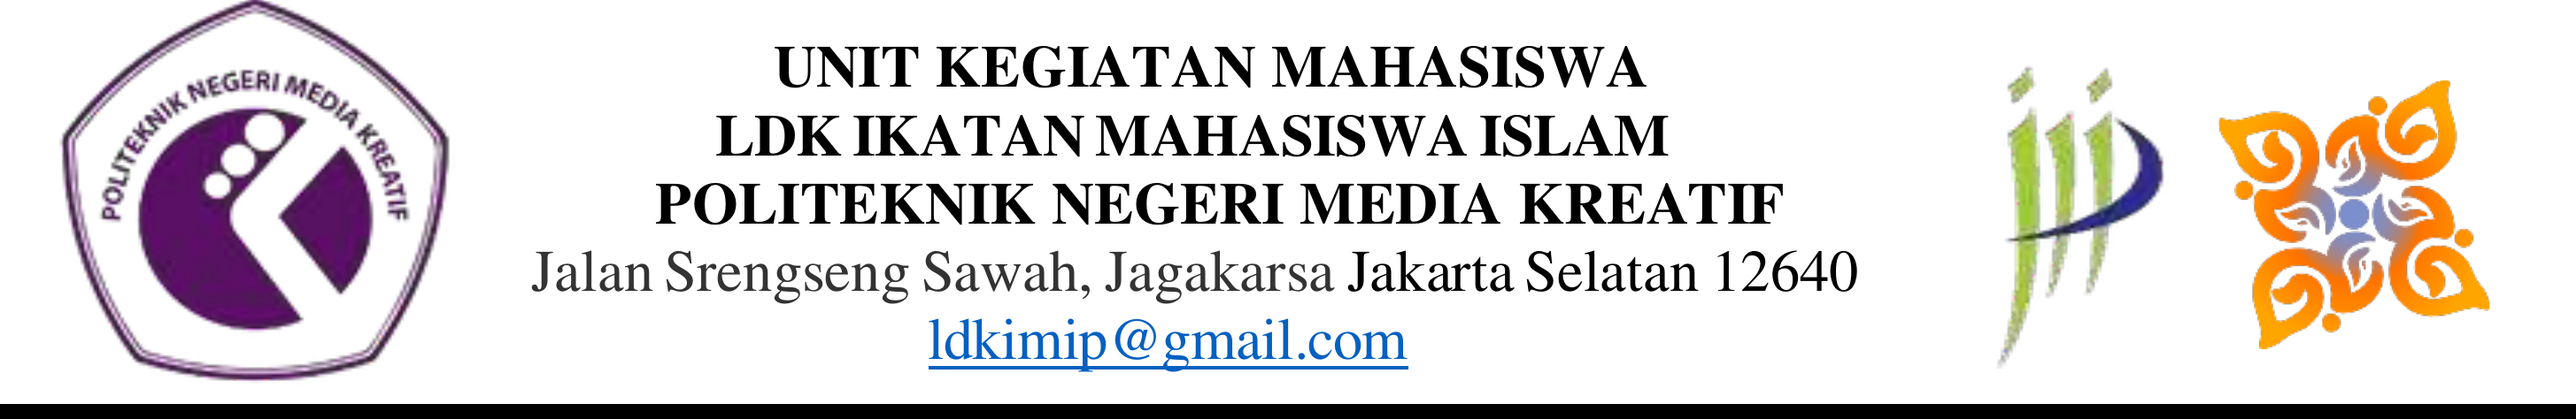
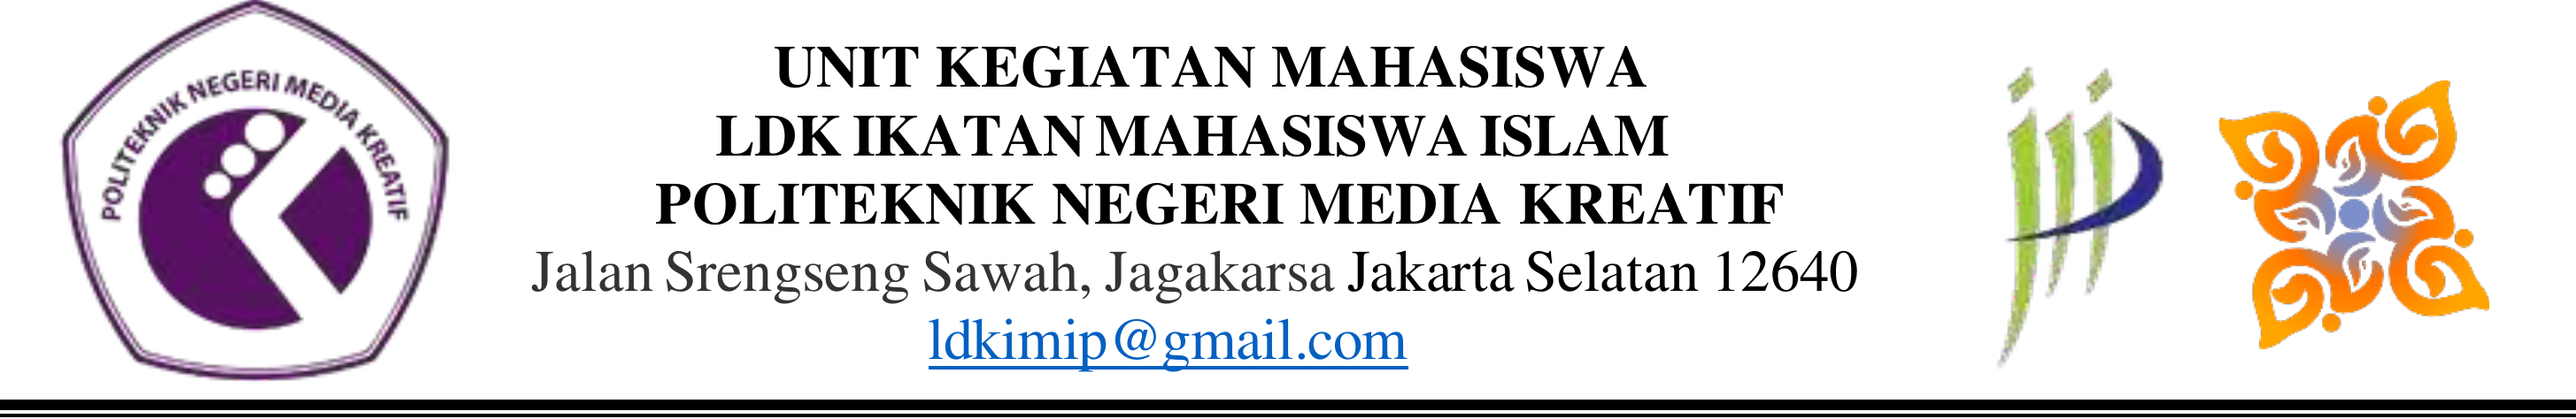
fix(spz): revisi format surat SPZ sesuai arahan gambar (garis ganda kop, PoliMedia, Yth tanpa kepada, tanpa koma UKM, perataan sejajar & perbaikan spasi)

Changed region(s): [[0.0, 0.9451, 1.0, 1.0]]

diff --git a/buat-surat.html b/buat-surat.html
@@ -764,14 +764,14 @@
                 nomorSurat: '025/SPZ/E1/UKM IMIP/V/2026',
                 lampiran: '1 Lembar',
                 tanggalSurat: 'Jakarta, 26 Mei 2026',
-                perihal: 'Surat Perizinan Fasilitas Masjid Ar-Rahman Polimedia',
-                tujuan: 'Kepada Yth, **Kepala Subbagian Umum**\nPoliteknik Negeri Media Kreatif\nDi Tempat',
+                perihal: 'Surat Perizinan Fasilitas Masjid Ar-Rahman PoliMedia',
+                tujuan: 'Yth. **Kepala Subbagian Umum**\nPoliteknik Negeri Media Kreatif\nDi Tempat',
                 incEvent: true,
                 namaAcara: 'QURMEDIA 2026',
                 hariTanggal: 'Rabu, 27 Mei s/d Kamis, 28 Mei 2026',
                 waktu: '18.00 s/d 06.00 WIB',
                 tempat: 'Masjid Ar-Rahman Politeknik Negeri Media Kreatif Jakarta,\nJl. Srengseng Sawah, Kel. Srengseng Sawah, Kec. Jagakarsa,\nJakarta Selatan 12630',
-                pembuka: 'Melalui surat ini, kami **UKM LDK IMIP**, bermaksud untuk mengajukan permohonan izin penggunaan fasilitas **Masjid Ar-Rahman Politeknik Negeri Media Kreatif** Jakarta untuk kegiatan **QURMEDIA 2026** yang akan dilaksanakan pada:',
+                pembuka: 'Melalui surat ini, kami **Unit Kegiatan Mahasiswa LDK IMIP** bermaksud untuk mengajukan permohonan izin penggunaan fasilitas **Masjid Ar-Rahman PoliMedia** Jakarta untuk kegiatan **QURMEDIA 2026** yang akan dilaksanakan pada:',
                 isiInti: 'Kegiatan ini merupakan rangkaian persiapan pelaksanaan **QURMEDIA 2026**, yang meliputi penjagaan dan pengawasan hewan qurban sebelum pelaksanaan penyembelihan. Fasilitas masjid akan digunakan sebagai tempat penginapan panitia yang bertugas menjaga hewan qurban agar kegiatan dapat berjalan dengan aman, tertib, dan terkoordinasi dengan baik.',
                 penutup: 'Demikian surat perizinan ini kami sampaikan. Atas perhatian dan kerja sama, kami sampaikan terima kasih.',
                 ttd1Jabatan: 'Ketua Pelaksana\nQURMEDIA 2026',
@@ -1133,7 +1133,9 @@
             escaped = escaped.replace(/\*\*(.*?)\*\*/g, '<strong style="font-weight: bold;">$1</strong>');
             // Auto-bold key entities if not already wrapped in strong
             const autoBoldList = [
+                'Unit Kegiatan Mahasiswa LDK IMIP',
                 'UKM LDK IMIP',
+                'Masjid Ar-Rahman PoliMedia',
                 'Masjid Ar-Rahman Politeknik Negeri Media Kreatif',
                 'QURMEDIA 2026'
             ];
@@ -1147,23 +1149,15 @@
 
         function formatSpzTujuan(text) {
             if (!text) return '';
-            const rawLines = text.split('\n').map(l => l.trim()).filter(l => l !== '');
+            // Remove 'Kepada ' if present as requested: 'Gak usah pake kepada'
+            let cleaned = text.replace(/^Kepada\s+/gm, '');
+            const rawLines = cleaned.split('\n').map(l => l.trim()).filter(l => l !== '');
             return rawLines.map((line, idx) => {
                 let formatted = formatSpzText(line);
                 if (!formatted.includes('<strong') && formatted.includes('Kepala Subbagian Umum')) {
                     formatted = formatted.replace('Kepala Subbagian Umum', '<strong style="font-weight: bold;">Kepala Subbagian Umum</strong>');
                 }
-                const isOnlyKepadaYth = /^Kepada\s+Yth\.?,?$/i.test(line);
-                if (isOnlyKepadaYth) {
-                    return `<p style="margin: 0; line-height: 1.45;">${formatted}</p>`;
-                }
-                if (idx === 0) {
-                    return `<p style="margin: 0 0 12pt 0; line-height: 1.45;">${formatted}</p>`;
-                }
-                if (idx === 1 && /^Kepada\s+Yth\.?,?$/i.test(rawLines[0])) {
-                    return `<p style="margin: 0 0 12pt 0; line-height: 1.45;">${formatted}</p>`;
-                }
-                return `<p style="margin: 0; padding-left: 28pt; line-height: 1.45;">${formatted}</p>`;
+                return `<p style="margin: 0; line-height: 1.35;">${formatted}</p>`;
             }).join('');
         }
 
@@ -1171,16 +1165,16 @@
         function renderSpzLetterHtml() {
             const noSurat = document.getElementById('field_nomor_surat').value.trim() || '025/SPZ/E1/UKM IMIP/V/2026';
             const lampiran = document.getElementById('field_lampiran').value.trim() || '1 Lembar';
-            const perihal = document.getElementById('field_perihal').value.trim() || 'Surat Perizinan Fasilitas Masjid Ar-Rahman Polimedia';
+            const perihal = document.getElementById('field_perihal').value.trim() || 'Surat Perizinan Fasilitas Masjid Ar-Rahman PoliMedia';
             const tanggalSurat = document.getElementById('field_tanggal_surat').value.trim() || 'Jakarta, 26 Mei 2026';
-            const tujuan = document.getElementById('field_tujuan').value.trim() || 'Kepada Yth, **Kepala Subbagian Umum**\nPoliteknik Negeri Media Kreatif\nDi Tempat';
+            const tujuan = document.getElementById('field_tujuan').value.trim() || 'Yth. **Kepala Subbagian Umum**\nPoliteknik Negeri Media Kreatif\nDi Tempat';
 
             const namaAcara = document.getElementById('field_nama_acara').value.trim() || 'QURMEDIA 2026';
             const hariTanggal = document.getElementById('field_hari_tanggal').value.trim() || 'Rabu, 27 Mei s/d Kamis, 28 Mei 2026';
             const waktu = document.getElementById('field_waktu').value.trim() || '18.00 s/d 06.00 WIB';
             const tempat = document.getElementById('field_tempat').value.trim() || 'Masjid Ar-Rahman Politeknik Negeri Media Kreatif Jakarta,\nJl. Srengseng Sawah, Kel. Srengseng Sawah, Kec. Jagakarsa,\nJakarta Selatan 12630';
 
-            const pembuka = document.getElementById('field_pembuka').value.trim();
+            const pembuka = document.getElementById('field_pembuka').value.trim() || 'Melalui surat ini, kami **Unit Kegiatan Mahasiswa LDK IMIP** bermaksud untuk mengajukan permohonan izin penggunaan fasilitas **Masjid Ar-Rahman PoliMedia** Jakarta untuk kegiatan **QURMEDIA 2026** yang akan dilaksanakan pada:';
             const isiInti = document.getElementById('field_isi_inti').value.trim();
             const penutup = document.getElementById('field_penutup').value.trim() || 'Demikian surat perizinan ini kami sampaikan. Atas perhatian dan kerja sama, kami sampaikan terima kasih.';
 
@@ -1214,23 +1208,27 @@
                 <p style="margin: 0 0 14pt 0; text-align: justify; text-indent: 1.25cm; line-height: 1.5; font-size: 12pt;">${formatSpzText(p).replace(/\n/g, '<br>')}</p>
             `).join('');
 
-            // Format Event Details Box (Accurate Indentation & Column Widths)
+            // Format Event Details Box (Accurate Indentation & Column Widths - Perfectly aligned with paragraph indent 1.25cm)
+            const formattedTempat = escapeHtml(tempat)
+                .replace(/,([^\s])/g, ', $1') // Ensure space after comma
+                .replace(/\n/g, '<br>');
+
             const eventBoxHtml = `
-                <table style="margin: 0 0 26pt 1.85cm; border-collapse: collapse; font-family: 'Times New Roman', serif; font-size: 12pt; line-height: 1.5;">
+                <table style="margin: 0 0 20pt 1.25cm; border-collapse: collapse; font-family: 'Times New Roman', serif; font-size: 12pt; line-height: 1.5;">
                     <tr>
-                        <td style="width: 125px; vertical-align: top; padding: 2.5pt 0;">Hari, Tanggal</td>
-                        <td style="width: 18px; vertical-align: top; text-align: center; padding: 2.5pt 0;">:</td>
-                        <td style="vertical-align: top; padding: 2.5pt 0;">${escapeHtml(hariTanggal)}</td>
+                        <td style="width: 105px; vertical-align: top; padding: 2pt 0; white-space: nowrap;">Hari, Tanggal</td>
+                        <td style="width: 15px; vertical-align: top; text-align: center; padding: 2pt 0;">:</td>
+                        <td style="vertical-align: top; padding: 2pt 0; padding-left: 8pt;">${escapeHtml(hariTanggal)}</td>
                     </tr>
                     <tr>
-                        <td style="vertical-align: top; padding: 2.5pt 0;">Pukul</td>
-                        <td style="vertical-align: top; text-align: center; padding: 2.5pt 0;">:</td>
-                        <td style="vertical-align: top; padding: 2.5pt 0;">${escapeHtml(waktu)}</td>
+                        <td style="vertical-align: top; padding: 2pt 0; white-space: nowrap;">Pukul</td>
+                        <td style="vertical-align: top; text-align: center; padding: 2pt 0;">:</td>
+                        <td style="vertical-align: top; padding: 2pt 0; padding-left: 8pt;">${escapeHtml(waktu)}</td>
                     </tr>
                     <tr>
-                        <td style="vertical-align: top; padding: 2.5pt 0;">Tempat</td>
-                        <td style="vertical-align: top; text-align: center; padding: 2.5pt 0;">:</td>
-                        <td style="vertical-align: top; padding: 2.5pt 0;">${escapeHtml(tempat).replace(/\n/g, '<br>')}</td>
+                        <td style="vertical-align: top; padding: 2pt 0; white-space: nowrap;">Tempat</td>
+                        <td style="vertical-align: top; text-align: center; padding: 2pt 0;">:</td>
+                        <td style="vertical-align: top; padding: 2pt 0; padding-left: 8pt;">${formattedTempat}</td>
                     </tr>
                 </table>
             `;
@@ -1522,7 +1520,7 @@
                                     <tr>
                                         <td style="width: 165px; vertical-align: top; padding: 1.5pt 0;">Perihal</td>
                                         <td style="width: 18px; vertical-align: top; text-align: center; padding: 1.5pt 0;">:</td>
-                                        <td style="vertical-align: top; padding: 1.5pt 0;">Surat Perizinan Penggunaan Fasilitas Masjid Polimedia</td>
+                                        <td style="vertical-align: top; padding: 1.5pt 0;">Surat Perizinan Penggunaan Fasilitas Masjid PoliMedia</td>
                                     </tr>
                                     <tr>
                                         <td style="width: 165px; vertical-align: top; padding: 1.5pt 0;">Tanggal</td>
@@ -1536,7 +1534,7 @@
                                     </tr>
                                     <tr>
                                         <td style="width: 165px; vertical-align: top; padding: 1.5pt 0;">Nomor Handphone</td>
-                                        <td style="width: 18px; vertical-align: top; text-align: center; padding: 1.5pt 0;">&nbsp;</td>
+                                        <td style="width: 18px; vertical-align: top; text-align: center; padding: 1.5pt 0;">:</td>
                                         <td style="vertical-align: top; padding: 1.5pt 0;">${escapeHtml(noHp)}</td>
                                     </tr>
                                 </table>
